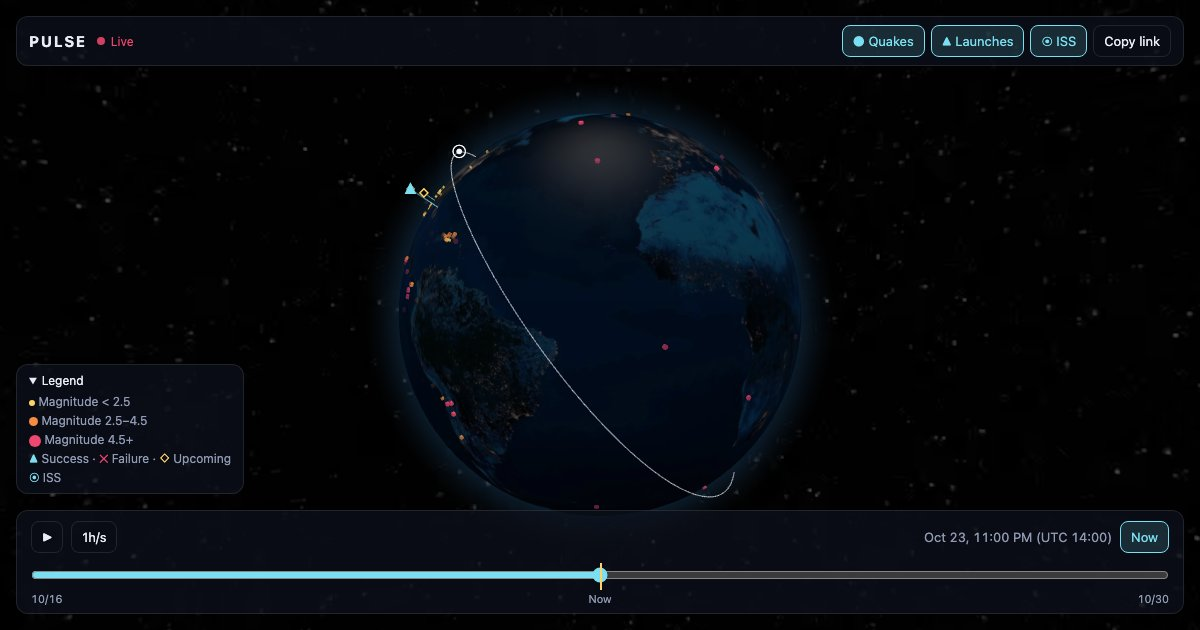
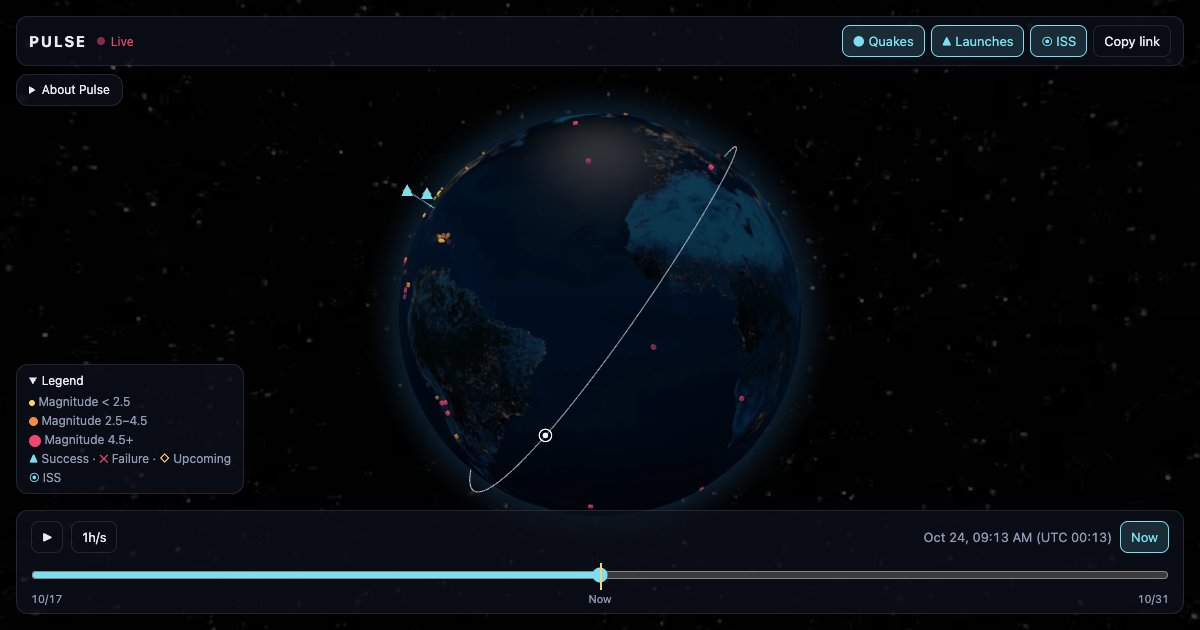
지구본을 늦게 불러오고 숨김 탭에서는 렌더를 멈춘다
첫 JS가 2.2MB 한 덩어리라 헤더·소개가 지구본 코드를 다 받을 때까지 기다렸다. globe.gl·three를 별도 청크로 떼어 첫 묶음을 248KB로 줄인다. 탭이 숨겨지면 렌더 루프를 멈추고, 렌더러 픽셀 비율을 2로 묶어 모바일 GPU 부담을 둔다. 미리보기 이미지는 소개 패널이 생긴 지금 화면으로 다시 찍는다.

diff --git a/src/App.tsx b/src/App.tsx
@@ -1,5 +1,4 @@
-import { useCallback, useEffect, useMemo, useRef, useState } from 'react';
-import { GlobeView } from './components/GlobeView.tsx';
+import { lazy, Suspense, useCallback, useEffect, useMemo, useRef, useState } from 'react';
 import { loadQuakes } from './sources/usgs.ts';
 import { loadLaunches } from './sources/launches.ts';
 import { isTleStale, loadTle, makePropagator, orbitPath, type Tle } from './sources/iss.ts';
@@ -14,6 +13,9 @@ import { decodeHash, encodeHash } from './lib/hash.ts';
 import { track } from './lib/analytics.ts';
 import { HOUR, LAYERS, MINUTE, SPEEDS, type LayerKey, type LayerStatus, type Loaded, type PulseEvent, type Selection } from './model.ts';
 import './App.css';
+
+// globe.gl·three는 무거워서 별도 청크로 — 헤더·스크러버가 먼저 그려지고 WebGL 없는 폴백은 받지 않는다
+const GlobeView = lazy(() => import('./components/GlobeView.tsx').then((m) => ({ default: m.GlobeView })));
 
 const reducedMotion = window.matchMedia('(prefers-reduced-motion: reduce)').matches;
 const webgl = hasWebGL();
@@ -201,18 +203,20 @@ export default function App() {
 
   return (
     <div className="app">
-      <GlobeView
-        t={t}
-        quakes={layers.includes('quake') ? visibleQuakes(quakes, t) : []}
-        launches={layers.includes('launch') ? visibleLaunches(launches, t) : []}
-        iss={iss}
-        orbit={orbit}
-        issStale={issStale}
-        reducedMotion={reducedMotion}
-        follow={follow}
-        onSelect={select}
-        onUserInteract={() => setFollow(false)}
-      />
+      <Suspense fallback={<div className="globe" />}>
+        <GlobeView
+          t={t}
+          quakes={layers.includes('quake') ? visibleQuakes(quakes, t) : []}
+          launches={layers.includes('launch') ? visibleLaunches(launches, t) : []}
+          iss={iss}
+          orbit={orbit}
+          issStale={issStale}
+          reducedMotion={reducedMotion}
+          follow={follow}
+          onSelect={select}
+          onUserInteract={() => setFollow(false)}
+        />
+      </Suspense>
       <Header
         live={live}
         layers={layers}

diff --git a/src/components/GlobeView.tsx b/src/components/GlobeView.tsx
@@ -85,6 +85,8 @@ export function GlobeView(props: GlobeProps) {
       .pathColor(() => 'rgba(245, 247, 255, 0.55)')
       .pathStroke(1.2)
       .pathTransitionDuration(0);
+    // 모바일 GPU 부담 상한(PageSpeed 모바일이 시간 초과됐다). globe.gl도 생성 시 2로 묶지만 기본값이 바뀌어도 유지
+    g.renderer().setPixelRatio(Math.min(window.devicePixelRatio, 2));
 
     function makeMarker(d: Marker): HTMLElement {
       const b = document.createElement('button');
@@ -126,10 +128,14 @@ export function GlobeView(props: GlobeProps) {
 
     const ro = new ResizeObserver(() => g.width(host.clientWidth).height(host.clientHeight));
     ro.observe(host);
+    // 탭이 숨겨지면 렌더 루프를 멈춘다
+    const onVisibility = () => (document.hidden ? g.pauseAnimation() : g.resumeAnimation());
+    document.addEventListener('visibilitychange', onVisibility);
     globe.current = g;
 
     return () => {
       ro.disconnect();
+      document.removeEventListener('visibilitychange', onVisibility);
       window.clearTimeout(resumeTimer.current);
       controls.removeEventListener('start', onStart);
       controls.removeEventListener('end', onEnd);
